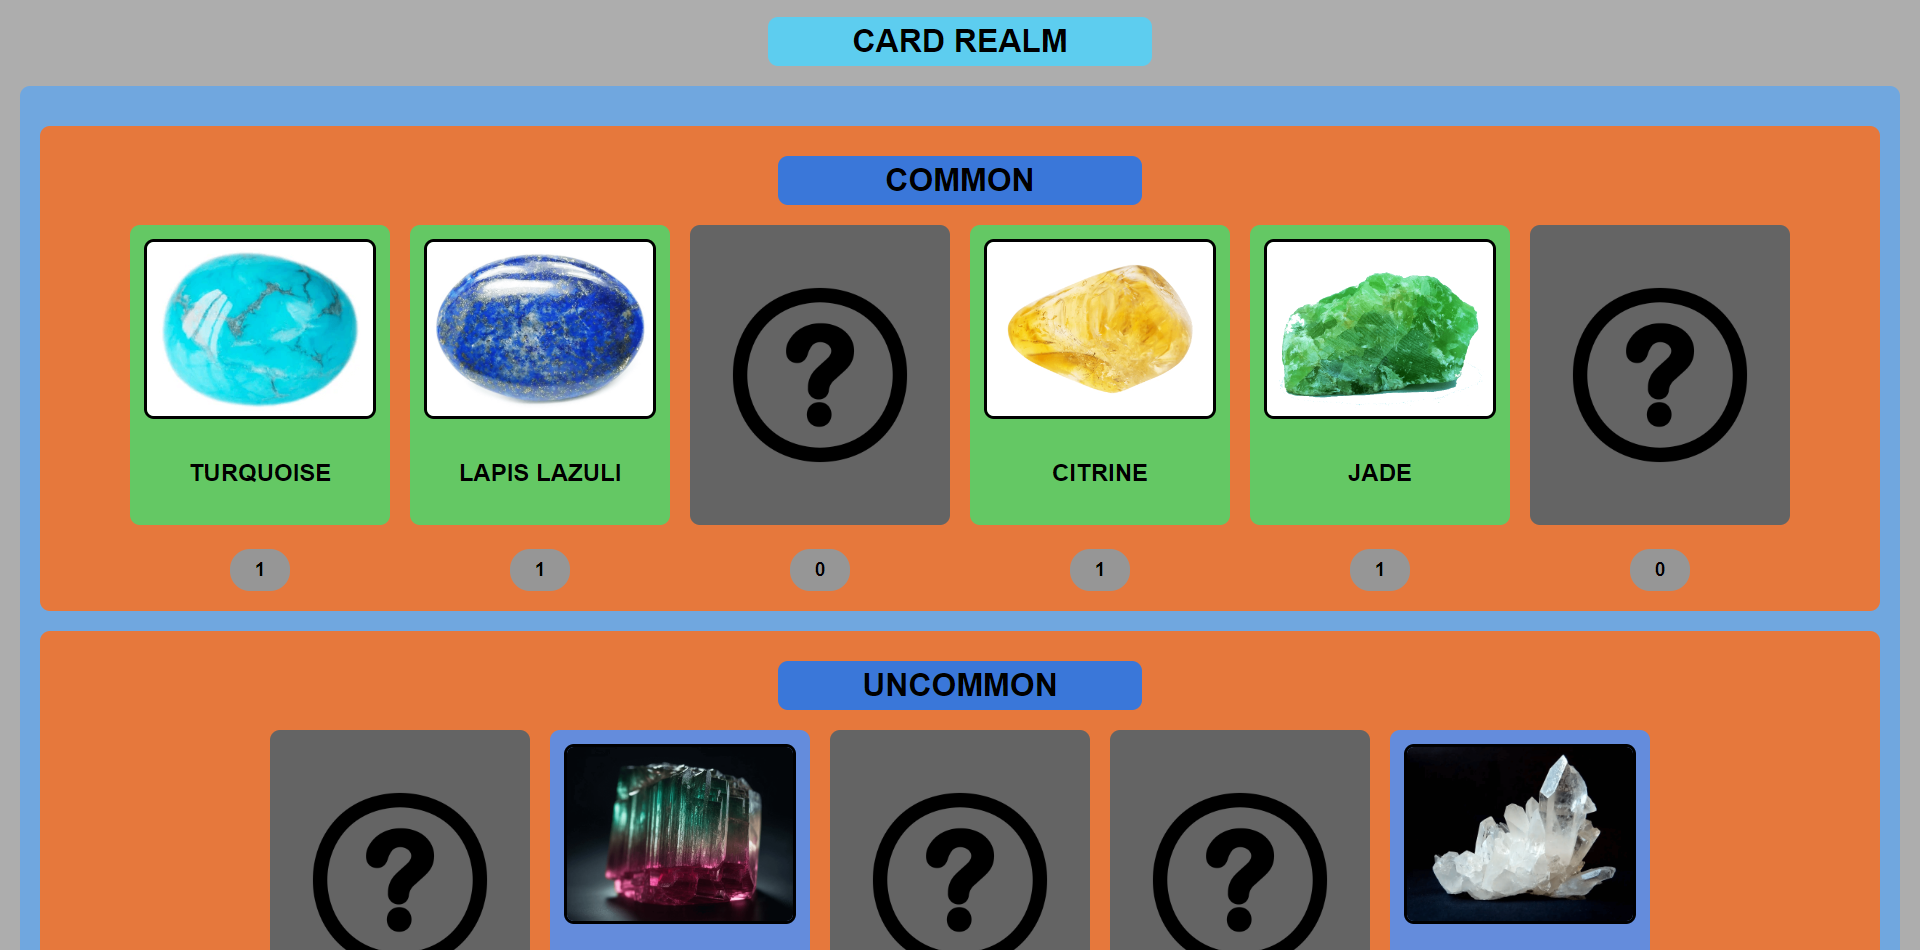
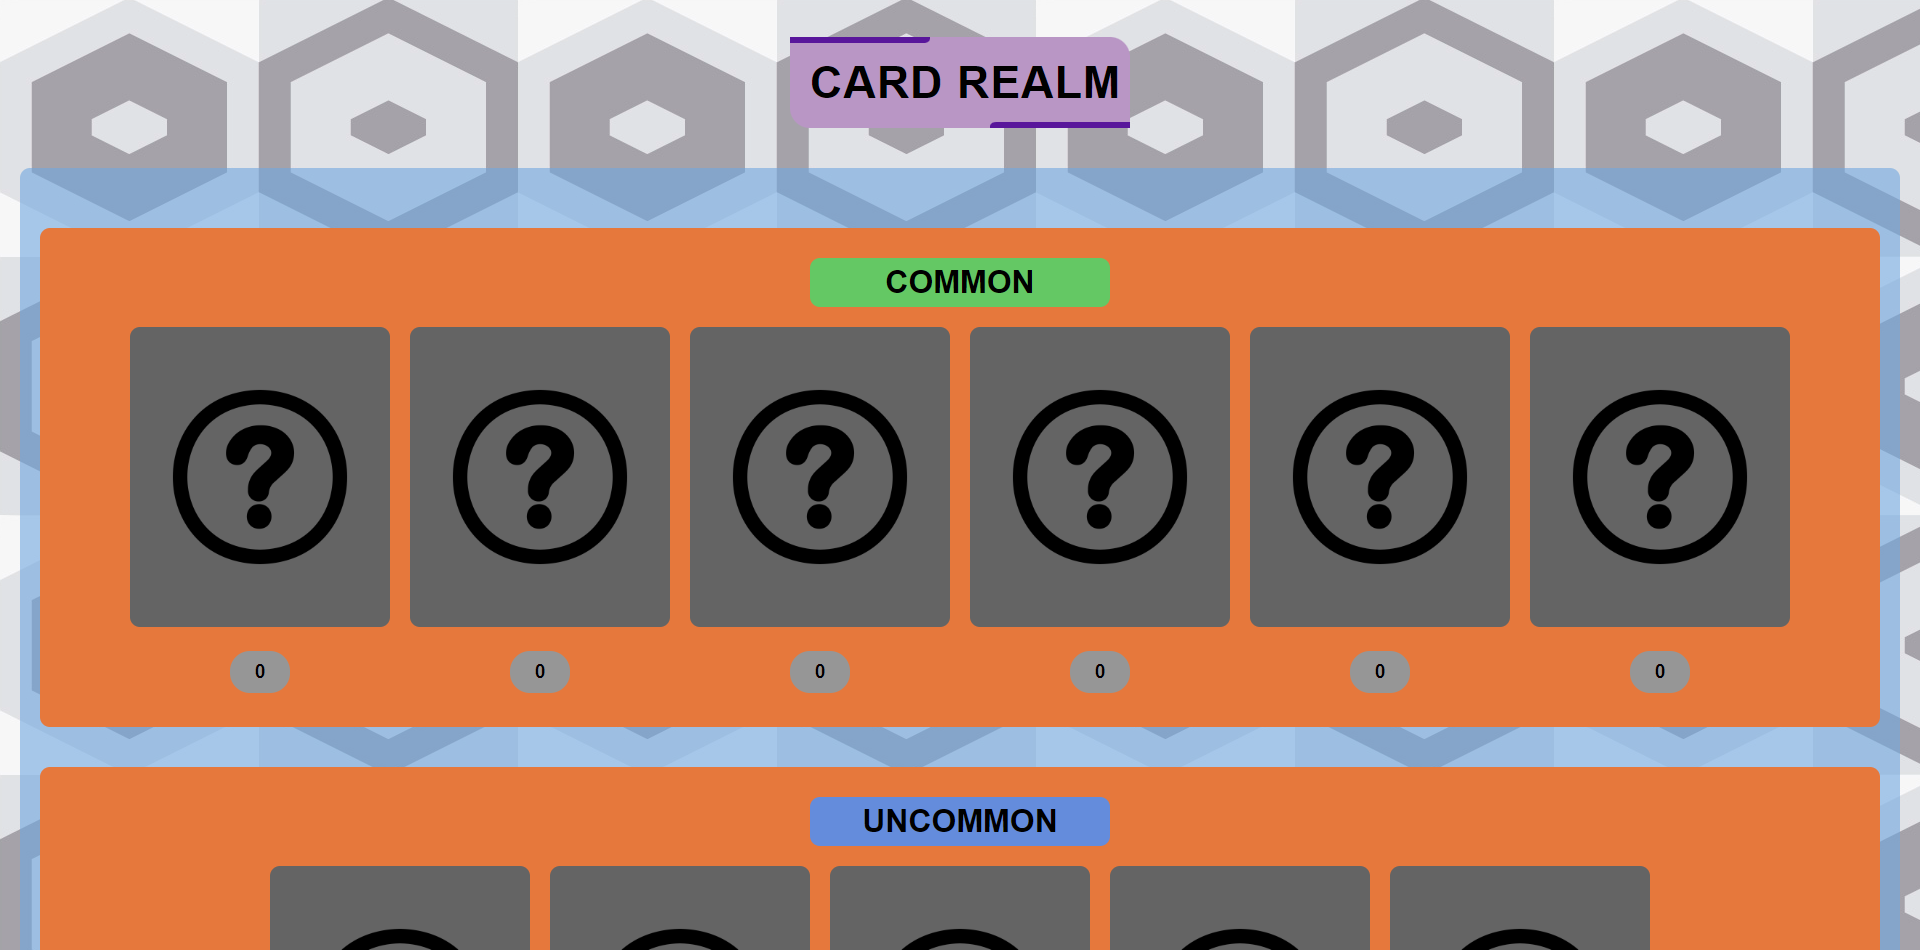
CARD REALM 1.0.0
Update Title Style
Update Background
Add background.png
Update index.css
Update README.md

diff --git a/src/index.css b/src/index.css
@@ -1,7 +1,8 @@
 :root {
-  --background: rgb(173, 173, 173);
-  --title: rgb(93, 205, 239);
-  --cards-collection-background: rgb(112, 167, 223);
+  --background: rgb(196, 196, 196);
+  --title-decorations: rgb(89, 22, 155);
+  --title-background: rgb(185, 150, 197);
+  --cards-collection-background: rgb(112, 167, 223, 0.6);
   --tier-background: rgb(230, 120, 60);
   --tier-title: rgb(58, 119, 217);
   --tier-common: rgb(100, 200, 100);
@@ -28,14 +29,54 @@
 }
 
 body {
-  background-color: var(--background);
+  background-image: url(../public/background.png);
+  background-repeat: repeat;
 }
 
 body::-webkit-scrollbar {
   display: none;
 }
 
-.title,
+.title {
+  font-size: 2.8rem;
+  font-weight: bold;
+  letter-spacing: 1px;
+  text-transform: uppercase;
+  width: 340px;
+  text-align: center;
+  margin: 40px auto;
+  white-space: nowrap;
+  padding: 20px;
+  border-top-right-radius: 20px;
+  border-bottom-left-radius: 20px;
+  position: relative;
+  background-color: var(--title-background);
+}
+
+.title:before,
+.title:after {
+  background-color: var(--title-decorations);
+  content: "";
+  display: block;
+  width: 140px;
+  height: 6px;
+  position: absolute;
+}
+
+.title:before {
+  top: 0;
+  left: 0;
+  animation: moveInFromLeft 1.5s forwards;
+  border-bottom-right-radius: 10px;
+}
+
+.title:after {
+  bottom: 0;
+  right: 0;
+  animation: moveInFromRight 1.5s forwards;
+  border-top-left-radius: 10px;
+}
+
 .tier-title {
   width: 300px;
   margin: 20px auto;
@@ -44,10 +85,6 @@ body::-webkit-scrollbar {
   text-align: center;
   font-size: 2rem;
   font-weight: bold;
-}
-
-.title {
-  background-color: var(--title);
 }
 
 .cards-collection {
@@ -59,7 +96,7 @@ body::-webkit-scrollbar {
 
 .tier {
   background-color: var(--tier-background);
-  margin: 20px 0;
+  margin: 40px 0;
   padding: 10px;
   border-radius: 10px;
 }
@@ -356,6 +393,24 @@ button:focus {
 
 .hide {
   display: none;
+}
+
+@keyframes moveInFromLeft {
+  0% {
+    left: -100vw;
+  }
+  100% {
+    left: 0;
+  }
+}
+
+@keyframes moveInFromRight {
+  0% {
+    right: -100vw;
+  }
+  100% {
+    right: 0;
+  }
 }
 
 @media (max-width: 1000px) {

diff --git a/README.md b/README.md
@@ -10,7 +10,7 @@
 
 - **STACK :**
 
-  - **Card Realm** : `0.21.0`
+  - **Card Realm** : `1.0.0`
   - **React** : `18.3.1`
   - **React Dom** : `18.3.1`
 
@@ -26,3 +26,4 @@
 
   - **Author : [David Gómez](https://github.com/DavidGomezToca)**
   - **Resources : [Flaticon](https://www.flaticon.es)**
+  - **Resources : [Freepik](https://www.freepik.es)**
